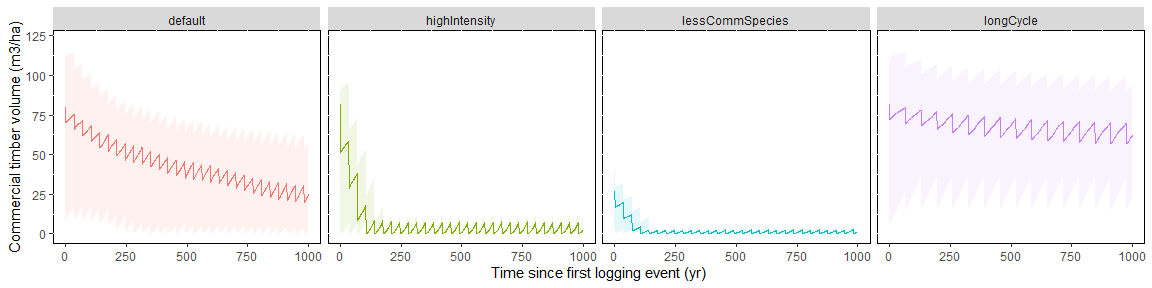
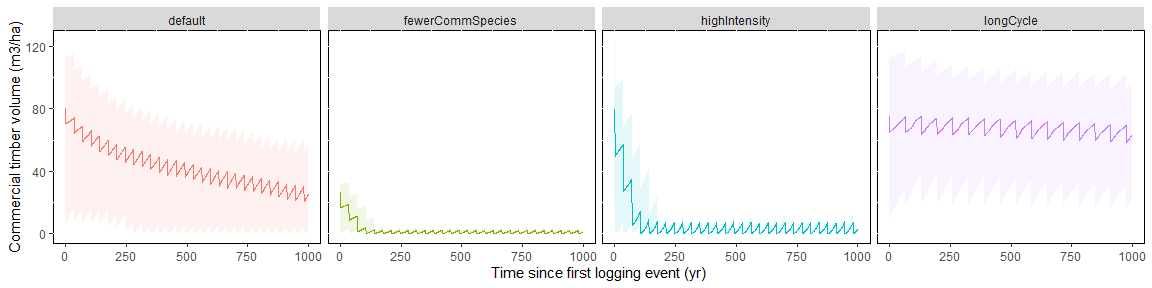
new figures in the main file - brazil concessions potential timber production

diff --git a/main.md b/main.md
@@ -20,13 +20,13 @@ The aim of this study is to find concrete messages and/or recommendations to be 
 
 ### Maturity and disturbance
 
-The timber recovery model used in this study is decribed in a previous publication [@Piponiot2018]. In this model, the total volume of trees $\geq$ 50 cm DBH is modelled as a function of a new variable, the forest maturity, that is itself estimated using volume dynamics data (volume changes from growth and mortality). 
+The timber recovery model used in this study is described in a previous publication [@Piponiot2018]. In this model, the total volume of trees $\geq$ 50 cm DBH is modeled as a function of a new variable, the forest maturity, that is itself estimated using volume dynamics data (volume changes from growth and mortality). 
 
-![](main_files/figure-html/unnamed-chunk-1-1.png)<!-- -->
+![](main_files/figure-html/illus-vol-recov-1.png)<!-- -->
 
 The maturity increases (1 unit per year) when there is no disturbance and decreases abruptly when there is a disturbance, for example selective logging. 
 
-![](main_files/figure-html/unnamed-chunk-2-1.png)<!-- -->
+![](main_files/figure-html/illus-disturb-1.png)<!-- -->
 
 ### Proportion of commercial volume
 
@@ -83,7 +83,7 @@ The following table summarizes the 4 scenarios and the values of each input vari
    <td style="text-align:left;"> 90% </td>
   </tr>
   <tr>
-   <td style="text-align:left;"> lessCommSpecies </td>
+   <td style="text-align:left;"> fewerCommSpecies </td>
    <td style="text-align:left;"> 10 m3/ha </td>
    <td style="text-align:left;"> 35 yr </td>
    <td style="text-align:left;"> 30% </td>
@@ -93,11 +93,16 @@ The following table summarizes the 4 scenarios and the values of each input vari
 
 The following figure shows the predicted trajectory of (commercial) timber volume stocks for each of the 4 scenarios. 
 
-![](main_files/figure-html/illustr_traj_uncert-1.png)<!-- -->
+![](main_files/figure-html/illus-traj-uncert-1.png)<!-- -->
 
 The following figure shows the predicted timber production (m3/ha) at each cutting cycle (30 total) for each of the 4 scenarios. When there is not enough commercial timber left at the end of a cutting cycle to reach the desired logging intensity, the total production decreases (for example in the highIntensity and the lessCommonSpecies scenarios).
 
-![](main_files/figure-html/illustr_vextReal_uncert-1.png)<!-- -->
+![](main_files/figure-html/illus-vextReal-uncert-1.png)<!-- -->
+
+
+## Adding silvicultural treatments
+
+According to the literature, the effect of silvicultural treatments such as liana removal  (and in some cases tree)
 
 
 # What criteria for sustainability? 
@@ -108,7 +113,7 @@ To explore the conditions upon which logging can be considered sustainable, we m
 
 A possible criterion for sustainability is to have a constant production (i.e. no decrease in the volume really extracted) during a given period, e.g. the first 500 years. We illustrate this with the previously-described scenarios.
 
-![](main_files/figure-html/illustr_sustainability-1.png)<!-- -->
+![](main_files/figure-html/illus-sustainability-1.png)<!-- -->
 
 
 
@@ -119,7 +124,7 @@ A possible criterion for sustainability is to have a constant production (i.e. n
 
 First we simulate timber recovery with $\omega_0 = 1$ (i.e. all species are commercial), and the conditions of central Amazonia (Manaus coordinates). Timber production is considered sustainble when the production is maintained to its desired level (i.e. the logging intensity) during the first 500 years. 
 
-![](main_files/figure-html/unnamed-chunk-6-1.png)<!-- -->
+![](main_files/figure-html/sustain-matrix-manaus-1.png)<!-- -->
 
 > As expected, the chance of timber production being sustainable increases with longer cutting cycles and lower logging intensities. 
 
@@ -129,7 +134,7 @@ To explore how the location and the proportion of commercial timber can influenc
 
 For each of these 5 locations we tested 5 proportions of commercial timber (from 20% to 100%), with varying logging intensities and cutting cycles. Results are presented in the following picture. 
 
-![](main_files/figure-html/unnamed-chunk-7-1.png)<!-- -->
+![](main_files/figure-html/sustain-matrix-sites-1.png)<!-- -->
 
 > The proportion of commerical timber is a strong predictor of timber production sustainability. Sustainability also depends to some degree on the location. 
 
@@ -137,7 +142,7 @@ For each of these 5 locations we tested 5 proportions of commercial timber (from
 
 Back to $\omega_0=1$ and the Manaus location, now we explore how the period of simulations (until now: 500 years) affects the assessmnet of sustainability. 
 
-![](main_files/figure-html/unnamed-chunk-8-1.png)<!-- -->
+![](main_files/figure-html/sustain-matrix-trec-1.png)<!-- -->
 
 > It seems that after 500 years, increasing the period of time does not change much the results: this is good news, we can stick with a 500-yr period!
 
@@ -170,15 +175,31 @@ The results are presented in 2 graphs: the total timber stocks (over all logged 
 
 
 
-![](main_files/figure-html/unnamed-chunk-9-1.png)<!-- -->
+![](main_files/figure-html/timber-stocks-1.png)<!-- -->
 
 
-![](main_files/figure-html/unnamed-chunk-10-1.png)<!-- -->
+![](main_files/figure-html/timber-production-1.png)<!-- -->
 
 > When the proportion of commercial timber is low, the timber production decreases rapidly and the demand cannont be met after the first logging cycle. In this case, alternative timber sources may be needed quickly. 
 
 > Increasing the proportion of timber (by harvesting more species) can increase the probability of ensuring sustainable production.
 
+## Viability of Brazilian forest concesssions
+
+We now carry on the same analysis, but focusing on Brazilian forest concessions. 
+
+We differentiate 3 areas: current concessions, planned concessions, and potential concessions xxx. 
+
+
+
+
+
+
+
+![](main_files/figure-html/timber-stock-br-1.png)<!-- -->
+
+
+![](main_files/figure-html/timber-production-br-1.png)<!-- -->
 
 
 # References
